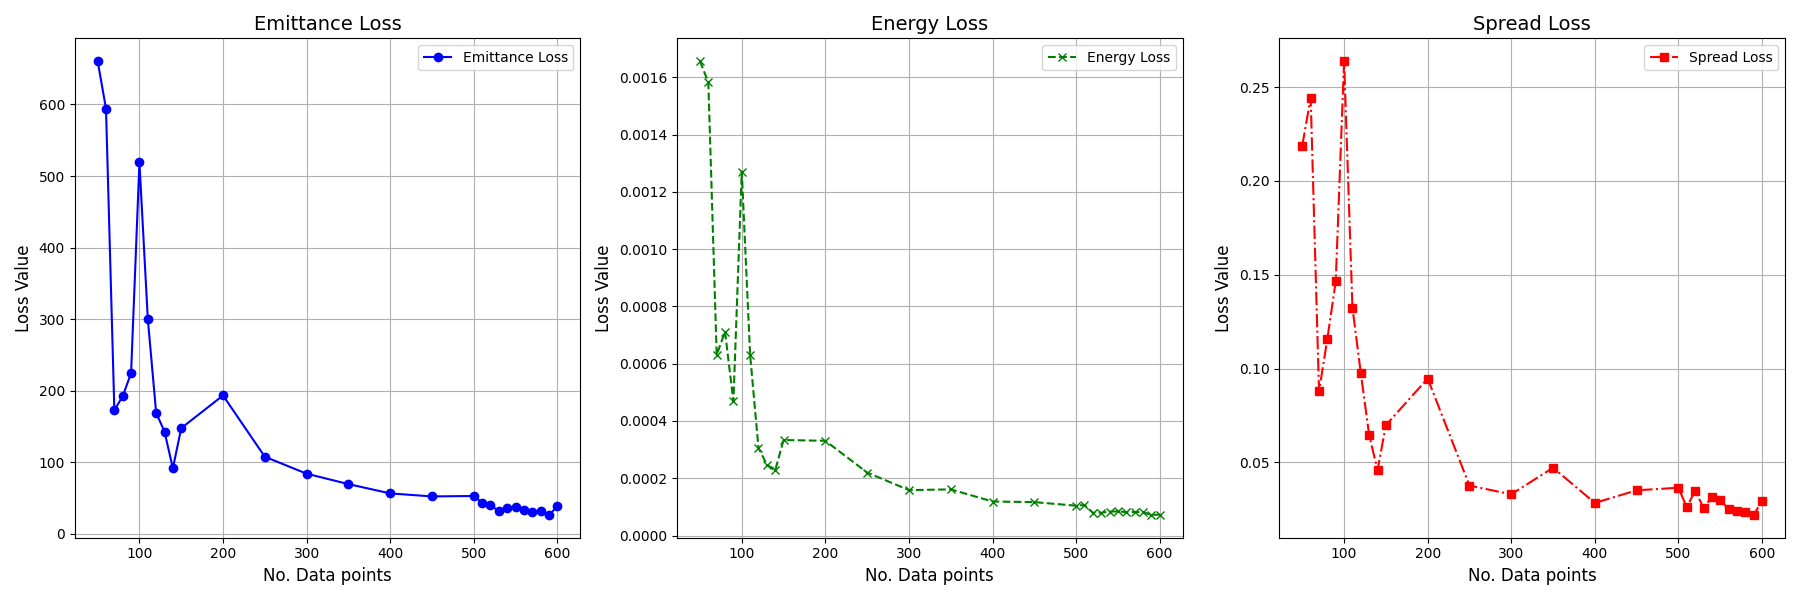
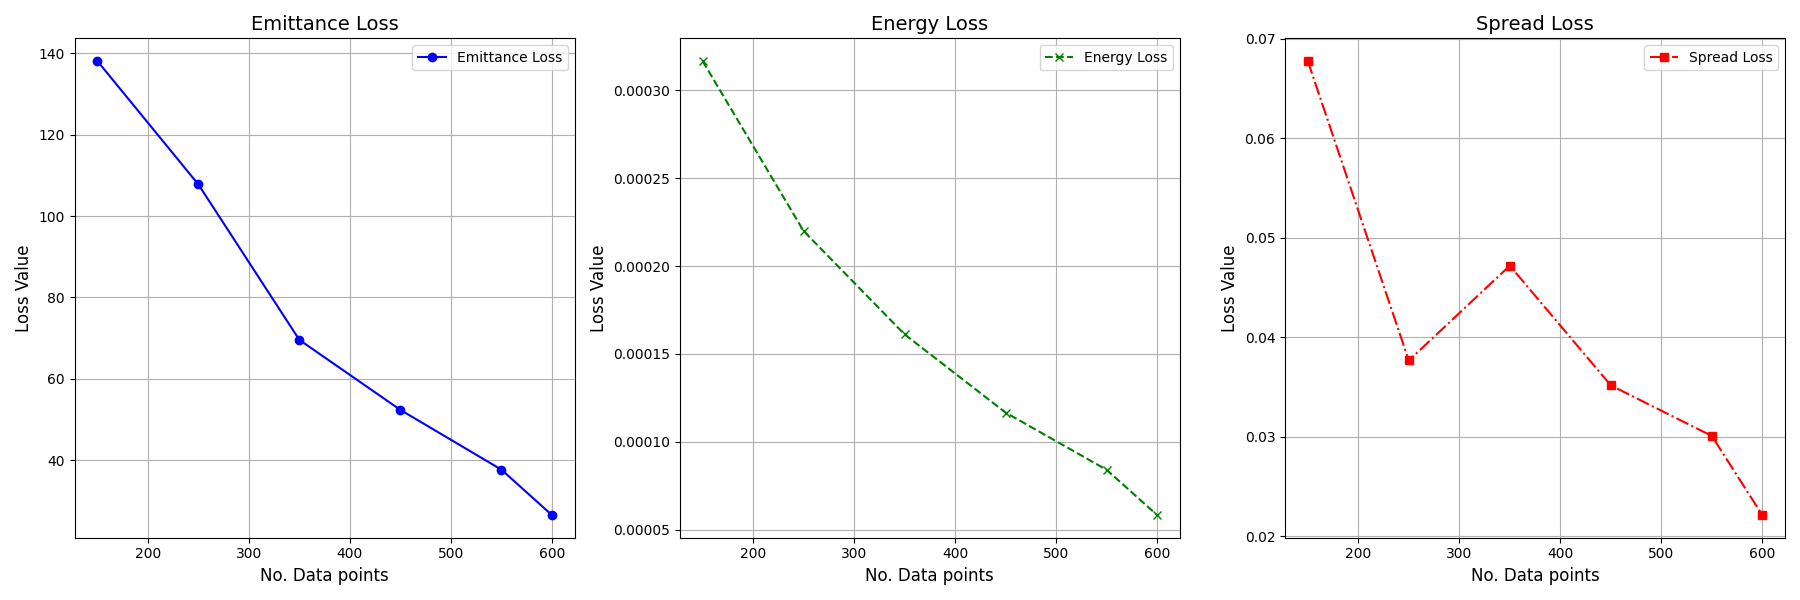
got more data for number of data points affecting loss

diff --git a/Machine Learning/neural_network_no_data_test.py b/Machine Learning/neural_network_no_data_test.py
@@ -15,11 +15,11 @@ import random
 import hiddenlayer as hl
 
 # Key inputs
-save_metrics = True # Change this to False if you don’t want to save for this run
+save_metrics = False # Change this to False if you don’t want to save for this run
 csv_file_path = "Machine Learning/training_metrics_3_targets_new_correct_data.csv"
 data_file_path="Processed_Data/data_sets/big_scan_correct.csv"
 
-data_no_array=np.array([50,60,70,80,90,100,110,120,130,140,150])
+data_no_array=np.array([400,500,600])
 emittance_loss_array=np.empty(0)
 spread_loss_array=np.empty(0)
 energy_loss_array=np.empty(0)
@@ -605,5 +605,5 @@ axes[2].legend()
 plt.tight_layout()
 
 # Showing the plot
-plt.show()
+#plt.show()
 

diff --git a/Machine Learning/loss_data_analysis.py b/Machine Learning/loss_data_analysis.py
@@ -6,11 +6,12 @@ import matplotlib.pyplot as plt
 
 data = pd.read_csv('Machine Learning\loss_data.csv')  
 
+point_array=np.array([100,200,300,400,500,600])
 # Group by 'No. Data Points' and calculate the mean of the losses
 average_losses = data.groupby('No. Data Points').mean()
 average_losses.reset_index(inplace=True)
-average_losses = average_losses[average_losses['No. Data Points'] != 575 & average_losses['No. Data Points']>=100]
-
+#average_losses = average_losses[(average_losses['No. Data Points'] != 575) & (average_losses['No. Data Points']>=100)]
+average_losses=average_losses[average_losses['No. Data Points'].isin(point_array)]
 
 # Display the result
 print(average_losses)
